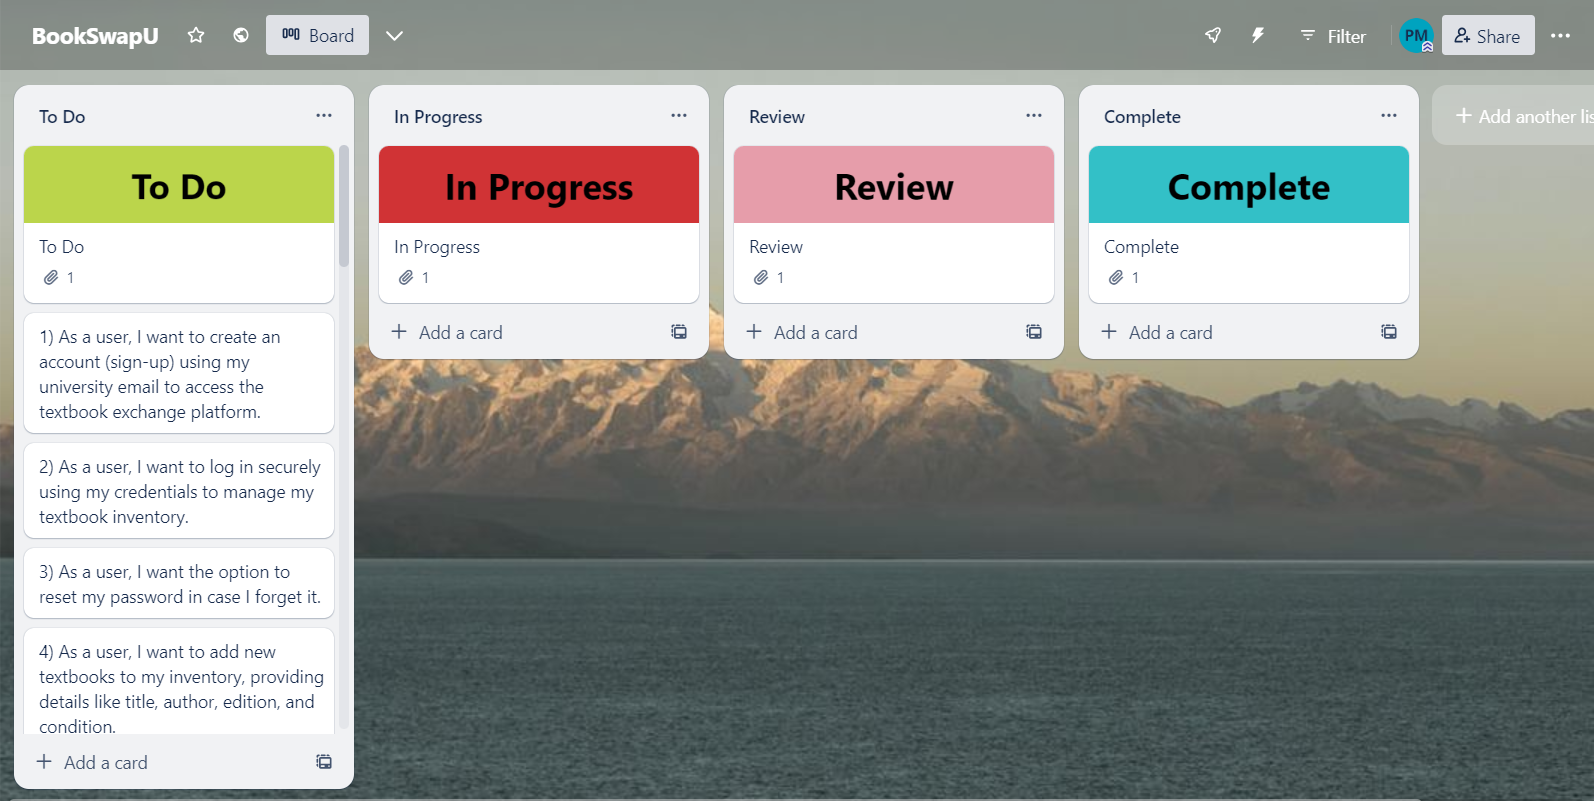
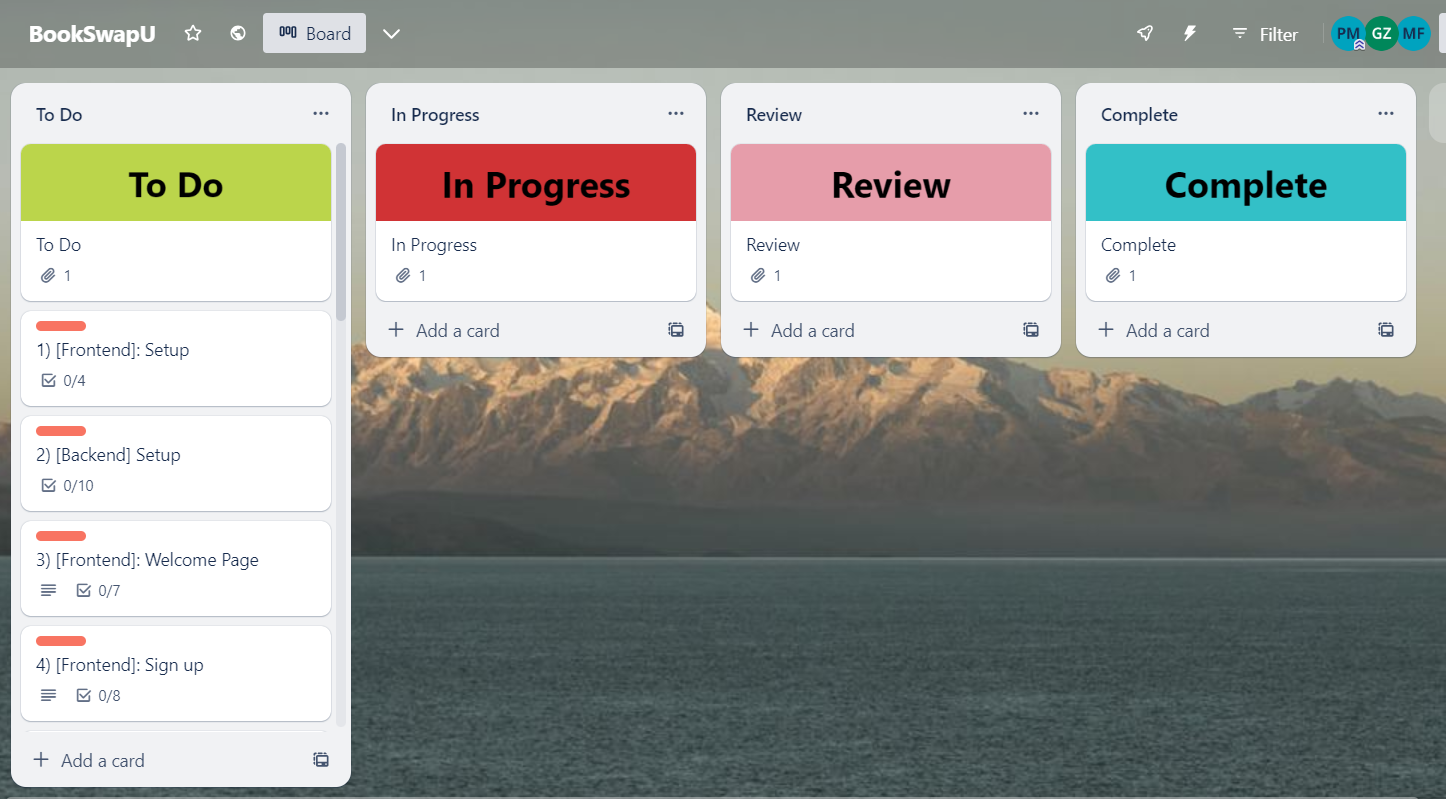
Completed R6

diff --git a/README.md b/README.md
@@ -115,7 +115,13 @@ These user stories cover the main functionality of the Book Exchange Application
 
 * As a user, I want to log in securely using my credentials to manage my textbook inventory.
 
+* As a user, I want to be able to view and update my account information (profile) like username, email and password.
+
 **Book Management:**
+
+* As a user, I want to view the textbooks in my inventory.
+
+* As a user, I want filter the textbooks that I view as my inventory can get quite large.
 
 * As a user, I want to add new textbooks to my inventory, providing details like title, author, edition, and condition.
 
@@ -151,21 +157,48 @@ These user stories outline the various features and functionalities of the propo
 
 # R6. Trello Board
 
-## Link to Trello Workspace
+We have settled on an Agile Kanban style approach to project management. Each card has a general heading which describes the web page that will be implemented by that block of work. Each web page is covered by two cards. One card represents all the frontend development work. The other card represents all the backend development work.
 
-I have settled on an Agile Kanban style approach to project management. I made the decision to create tasks based on individual coding milestones as well as the requirements for the README document. Generally speaking, each card will represent a user story with each one containing tasks. Each card may or may not contain a specific assessment requirement as they may coincide with a coding milestone, or they may be carried out independently and therefore be their own card. Each card has the user story as its title.
+Each pair of cards contains one or more of user stories (outlined in R4) in it's description, which detail the functionality that will be implemented (frontend and backend).
 
-Please note that there isn't always a perfect mapping between user stories and Trello cards.
+Each card contains a coding requirement checklist. Each item (or task) is checked off by the developer when completed.
+
+Please note that there isn't always a perfect mapping between user stories and Trello cards. For example, code which loads the 'Profile' page (or component) needs to be added to the 'Profile' link in the navbar component. So there is some crossover work between components. This type of work has been recorded in the cards. Collaboration between developers is required to avoid any conflicts.
 
 The Trello board is divided into the following columns (a standard approach). All cards created will be initially placed in the Todo list and move into the "In Progress" column based on priority.
 
-Todo: Work that is yet to be commenced.
-In Progress: Work that is actively being undertaken.
-Review: Work that is completed and awaiting review. This may be a code review or it may be a requirement that is evaluated against the rubric criteria. If the item under review fails it is flagged and sent back to "In Progress".
-Completed: Work that is completely finished and had passed the review stage.
-I have calculated 14 days to complete the project.
+* **To Do:** Work that is yet to be commenced.
+* **In Progress:** Work that is actively being undertaken.
+* **Review:** Work that is completed and awaiting review. This may be a code review or it may be a requirement that is evaluated against the rubric criteria. If the item under review fails it is flagged and sent back to **"In Progress"**.
+* **Completed:** Work that is completely finished and had passed the review stage.
 
+Cards 1 and 2 have to be carried out first as this is the setup of the project infrastructure. Cards 22 to 25 are carried out in the post development phase. Cards 22 and 23 (User Acceptance Testing) are done independently of each other. All other cards can be assigned to different members of the development team and can largely be carried out independently with collaboration taking place at points where components interact.
+
+We have calculated 14 days to complete the project. Progress will be tracked by recording a standup each day in this section of the Trello board below. A summary of the work done will be posted along with a snapshot of the Trello board.
+
+![Trello-Board](docs/trello-main.png)
+***<p style="text-align: center;">Trello Board at the Start of Day 1</p>***
+
+## Link to Trello Workspace
 
 https://trello.com/b/EmuuACLM/bookswapu
 
-![Enrollment](docs/trello-main.png)
+## To Do List
+
+![Todo-List](docs/todo-list.png)
+***<p style="text-align: center;">Complete list of Trello Cards Representing Blocks of Work</p>***
+
+## Sample Checklists
+
+![Checklist-1](docs/checklist-1.png)
+***<p style="text-align: center;">Setup Checklist for the Frontend</p>***
+
+![Checklist-2](docs/checklist-2.png)
+***<p style="text-align: center;">Checklist for the Login Page</p>***
+
+![Checklist-3](docs/checklist-3.png)
+***<p style="text-align: center;">Checklist for the Login API Route</p>***
+
+![Checklist-4](docs/checklist-4.png)
+***<p style="text-align: center;">Checklist for the Messaging Feature View</p>***
+
